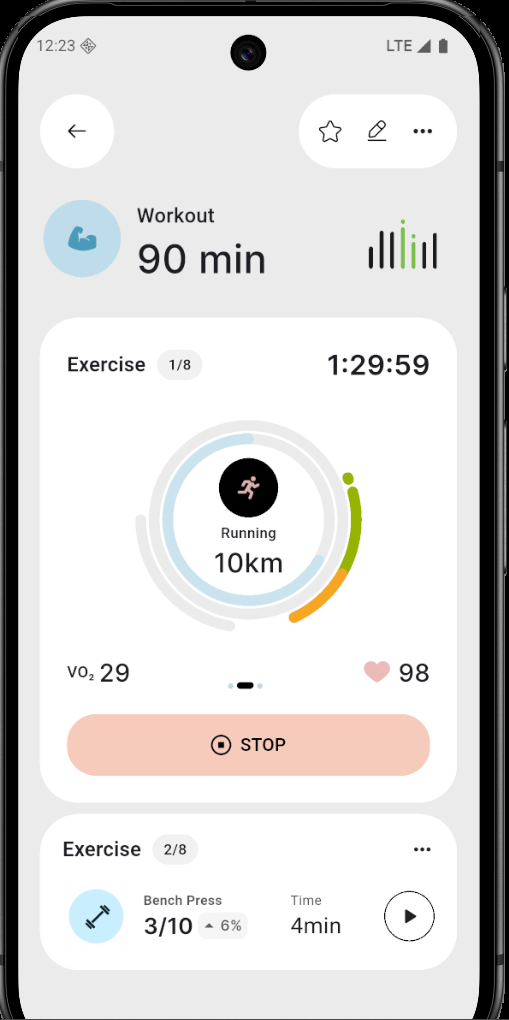
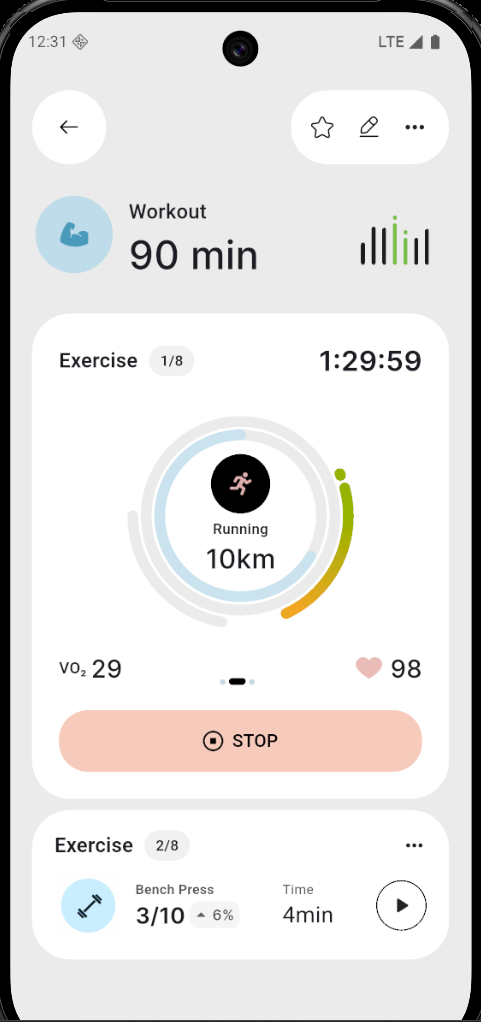
Day-7 Final UI Action

diff --git a/day7/lib/painters/running_progress_painter.dart b/day7/lib/painters/running_progress_painter.dart
@@ -81,32 +81,26 @@ class RunningProgressPainter extends CustomPainter {
 
     // Gradient arc
 
-    final greenArcPaint = Paint()
+    final gradientPaint = Paint()
       ..style = PaintingStyle.stroke
       ..strokeCap = StrokeCap.round
       ..strokeWidth = outerStroke
-      ..color = ProgressColors.green;
+      ..shader = SweepGradient(
+        startAngle: degToRad(0),
+        endAngle: degToRad(120),
+        colors: [
+          ProgressColors.green,
+          ProgressColors.orange,
+          ProgressColors.green,
+        ],
+      ).createShader(Rect.fromCircle(center: center, radius: outerRadius));
 
     canvas.drawArc(
-      outerRect,
-      degToRad(345), // start
-      degToRad(55), // green length
+      Rect.fromCircle(center: center, radius: outerRadius),
+      degToRad(345),
+      degToRad(80),
       false,
-      greenArcPaint,
-    );
-
-    final orangeArcPaint = Paint()
-      ..style = PaintingStyle.stroke
-      ..strokeCap = StrokeCap.round
-      ..strokeWidth = outerStroke
-      ..color = ProgressColors.orange;
-
-    canvas.drawArc(
-      outerRect,
-      degToRad(30), // overlaps slightly
-      degToRad(35), // short orange tail
-      false,
-      orangeArcPaint,
+      gradientPaint,
     );
 
     // Inactive grey arc

diff --git a/day7/lib/screens/workout/workout_stats_card.dart b/day7/lib/screens/workout/workout_stats_card.dart
@@ -14,7 +14,7 @@ class WorkoutStatsCard extends StatelessWidget {
         borderRadius: BorderRadius.circular(34),
       ),
       child: Column(
-        children: const [
+        children: [
           HeaderRow(),
           MultiRing(),
           MetricsRow(),

diff --git a/day7/lib/screens/workout/workout_header.dart b/day7/lib/screens/workout/workout_header.dart
@@ -7,7 +7,7 @@ class WorkoutHeader extends StatelessWidget {
 
   @override
   Widget build(BuildContext context) {
-    return Padding(
+    return Container(
       padding: const EdgeInsets.fromLTRB(3, 18, 18, 18),
       child: Row(
         children: const [
